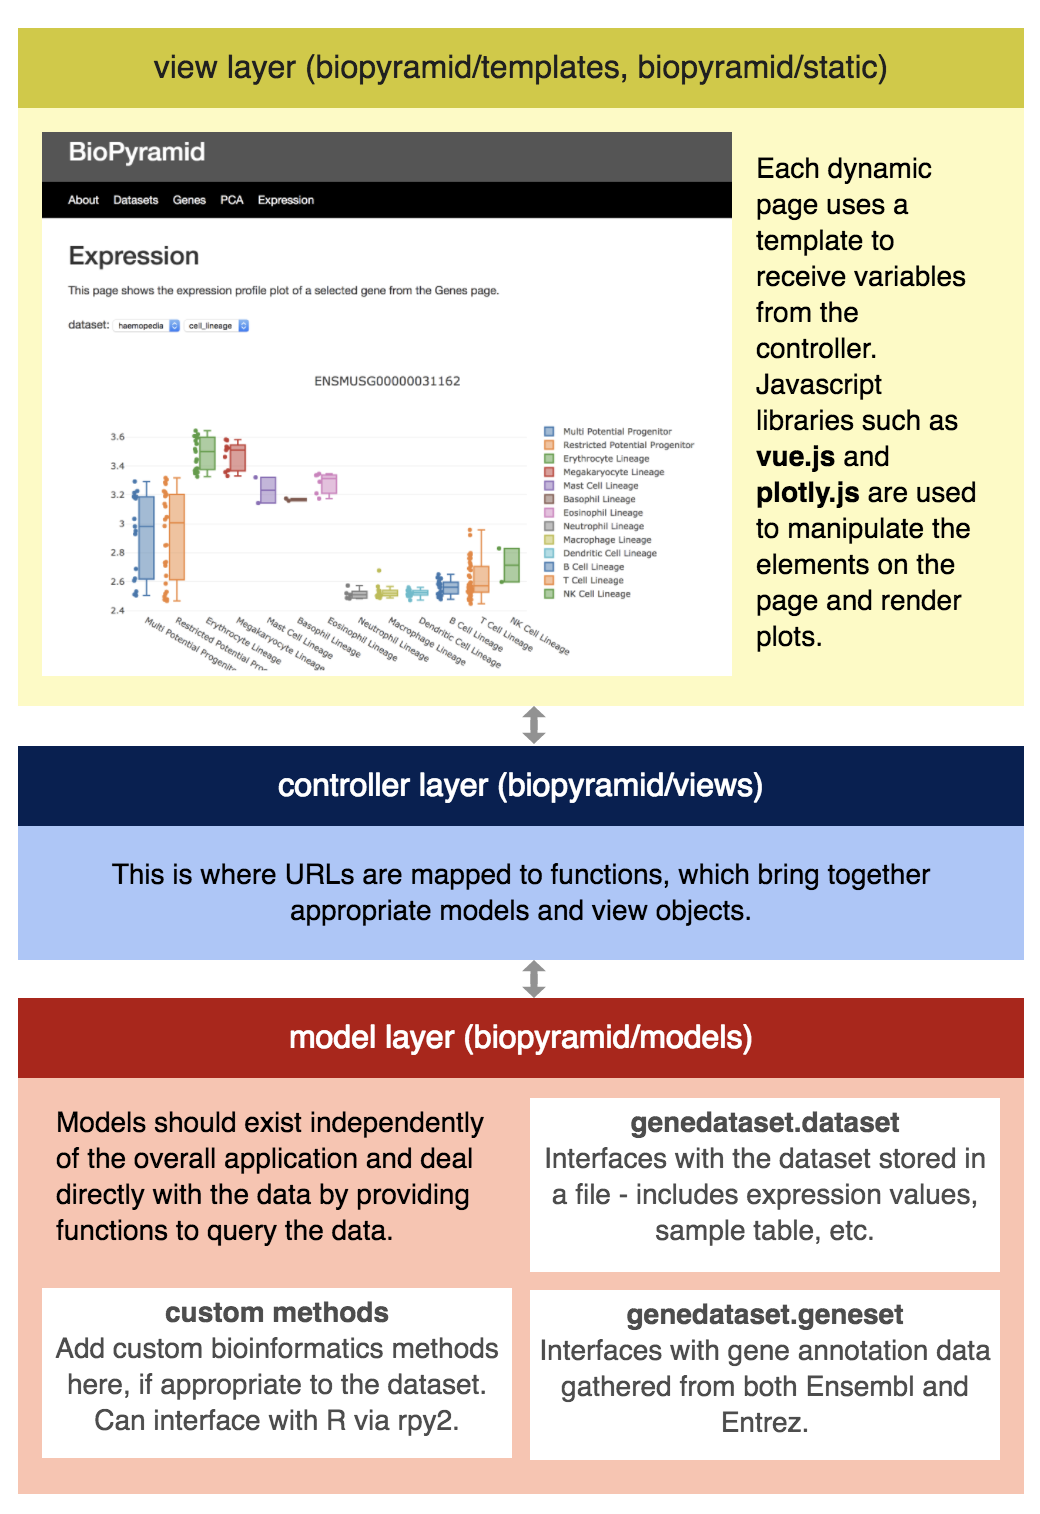
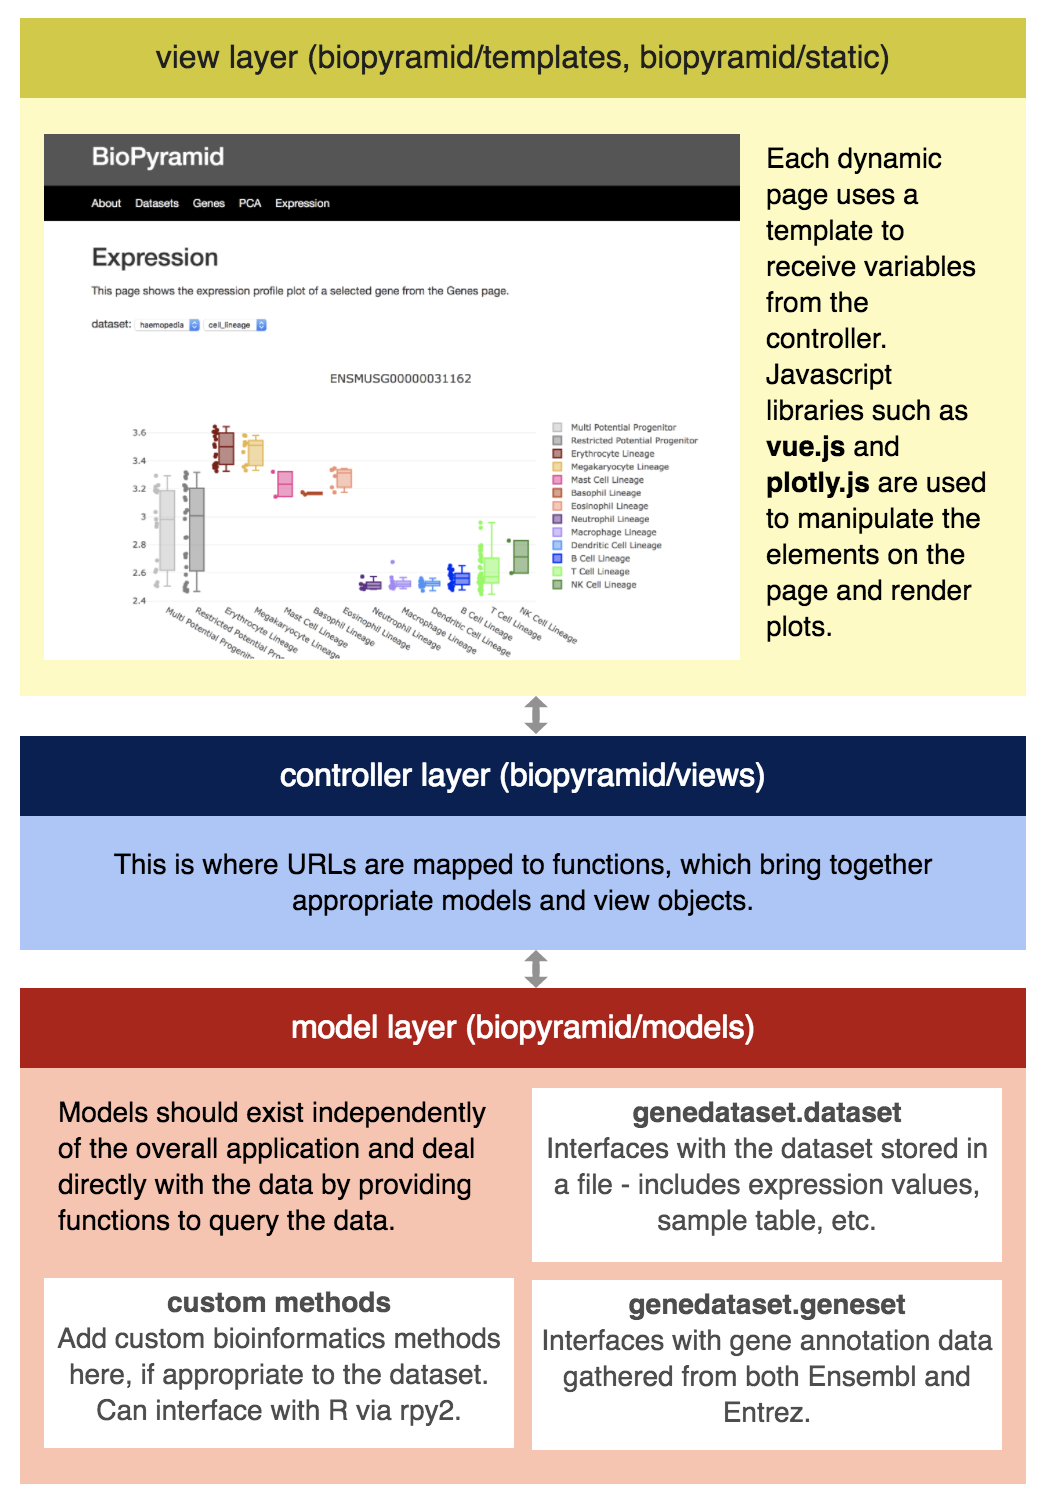
Updated image and version numbers.

Changed region(s): [[0.0, 0.0, 0.9846, 1.0], [0.3077, 0.25, 0.4308, 0.2812], [0.2462, 0.3125, 0.3385, 0.3438]]

diff --git a/setup.py b/setup.py
@@ -21,7 +21,7 @@ requires = [
     ]
 
 setup(name='biopyramid',
-      version='0.1',
+      version='0.0.1a',
       description='biopyramid',
       long_description=README + '\n\n' + CHANGES,
       classifiers=[
